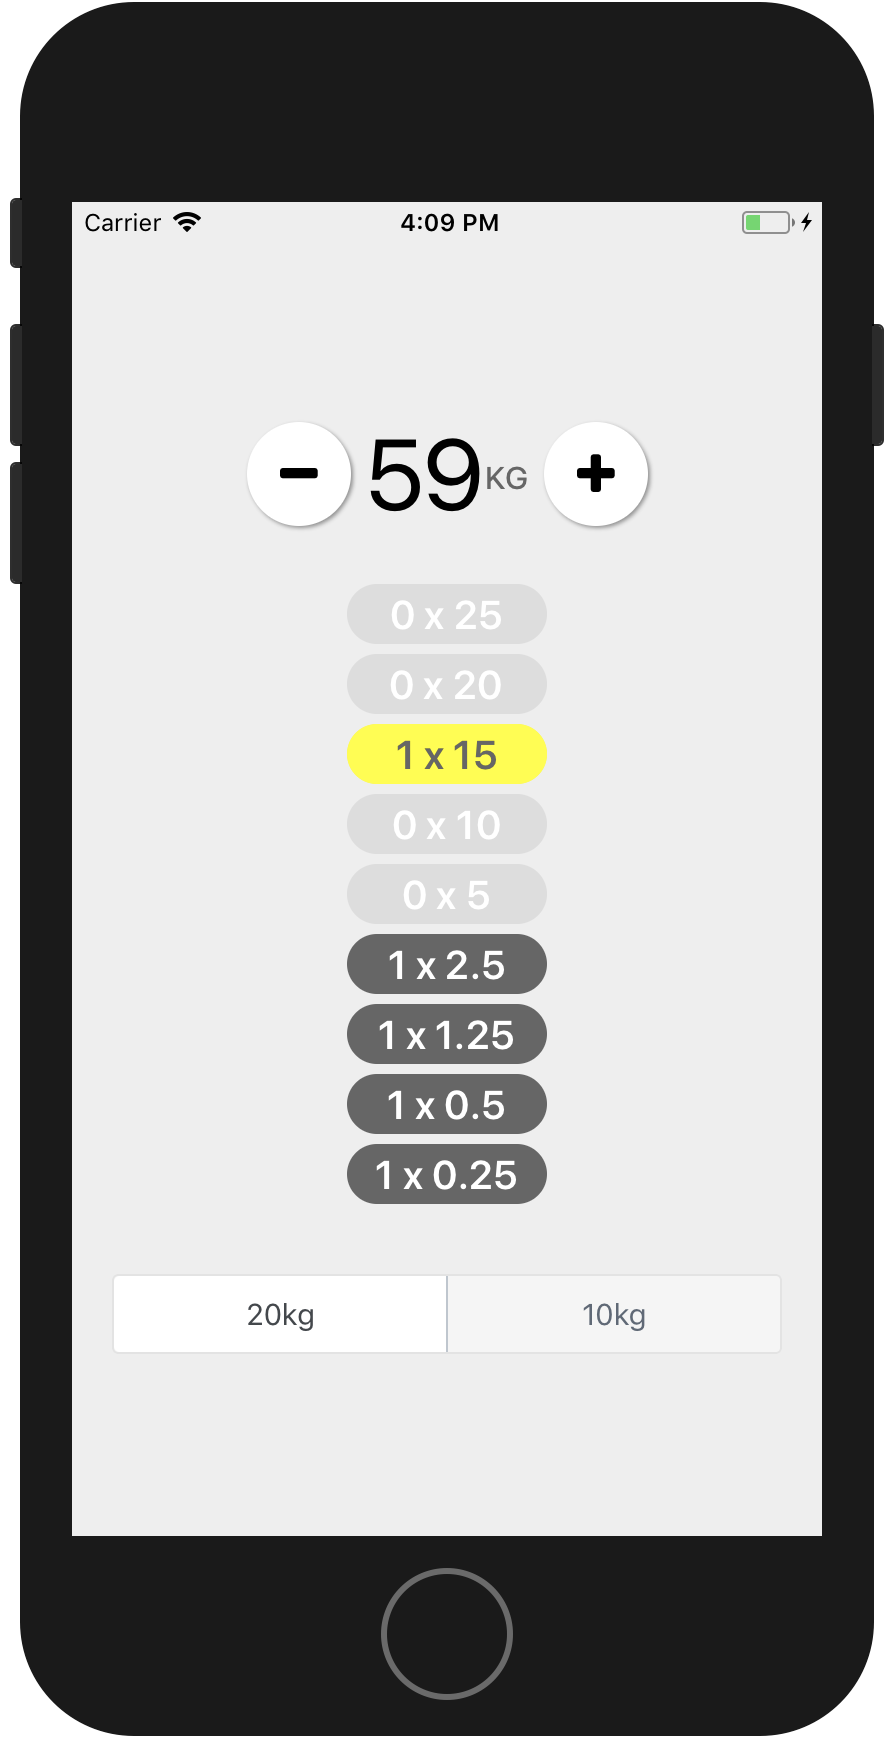
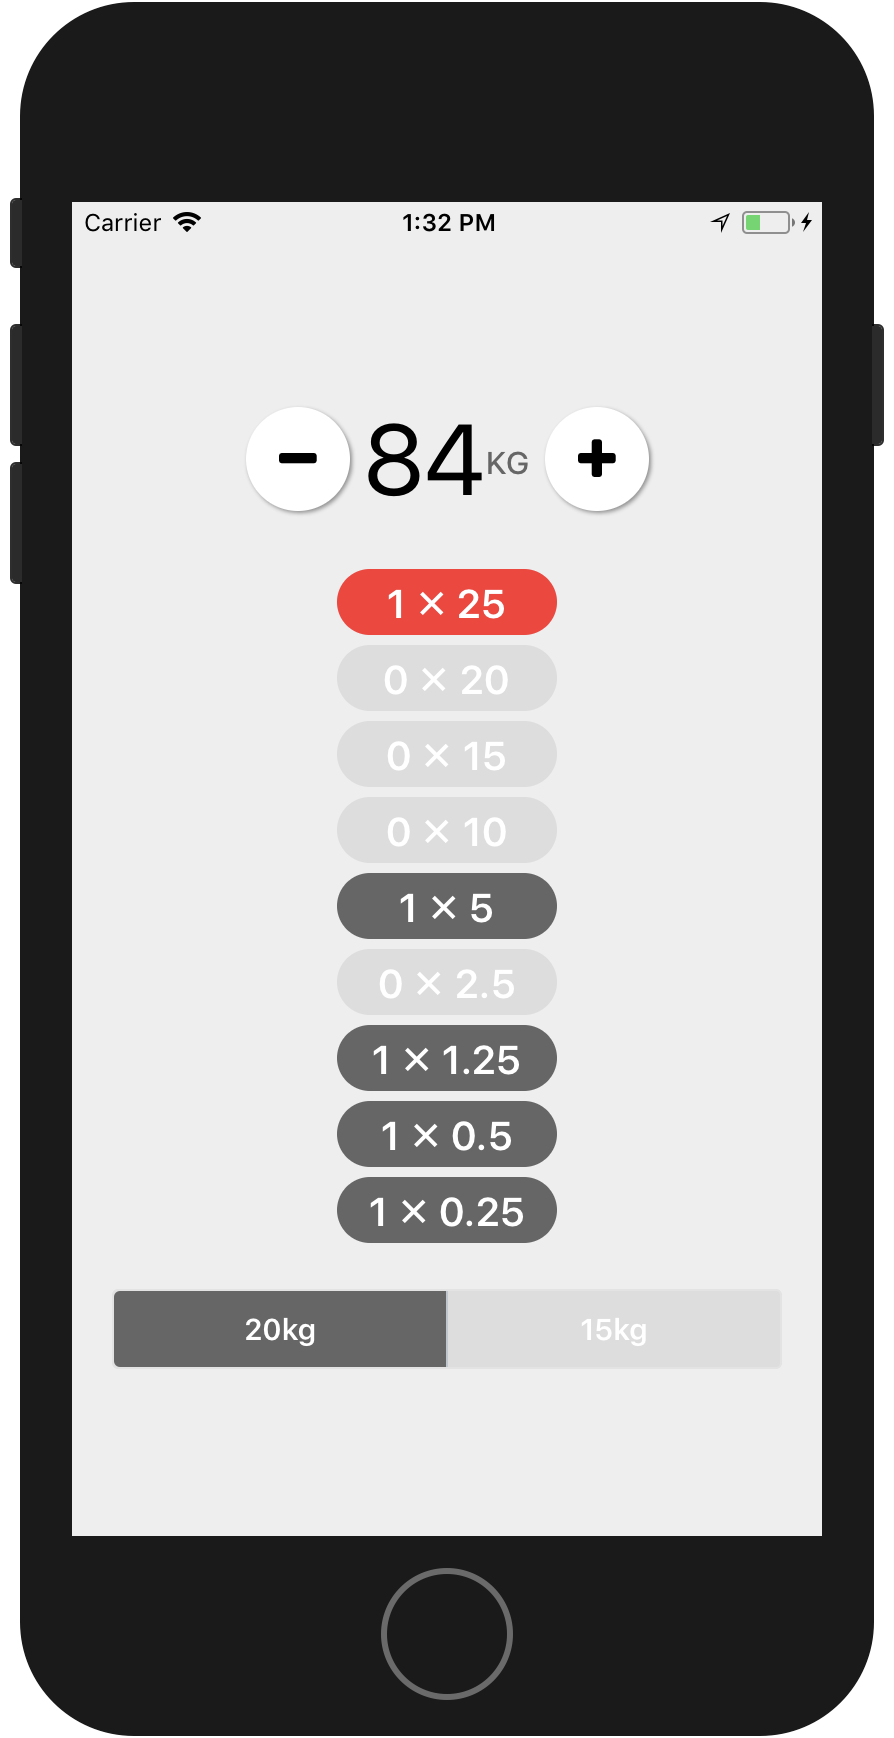
new docs

diff --git a/README.md b/README.md
@@ -10,7 +10,13 @@ to change the plates, see `components/Weight.js`. Styling is in `BarbellMath.js`
 
 See it in action:
 
-![Screenshot of BarbellMath](https://github.com/vinibaggio/barbellmath/blob/master/docs/barbellmath.png?raw=true)
+![Screenshot of BarbellMath](https://github.com/vinibaggio/barbellmath/blob/master/docs/usage.png?raw=true)
+
+# How to use:
+
+Pick your bar (20kg or 15kg), press and hold the plus or minus buttons until
+you reach your target weight. The longer you hold the buttons, the larger the
+increments of weight.
 
 Enjoy!
 
